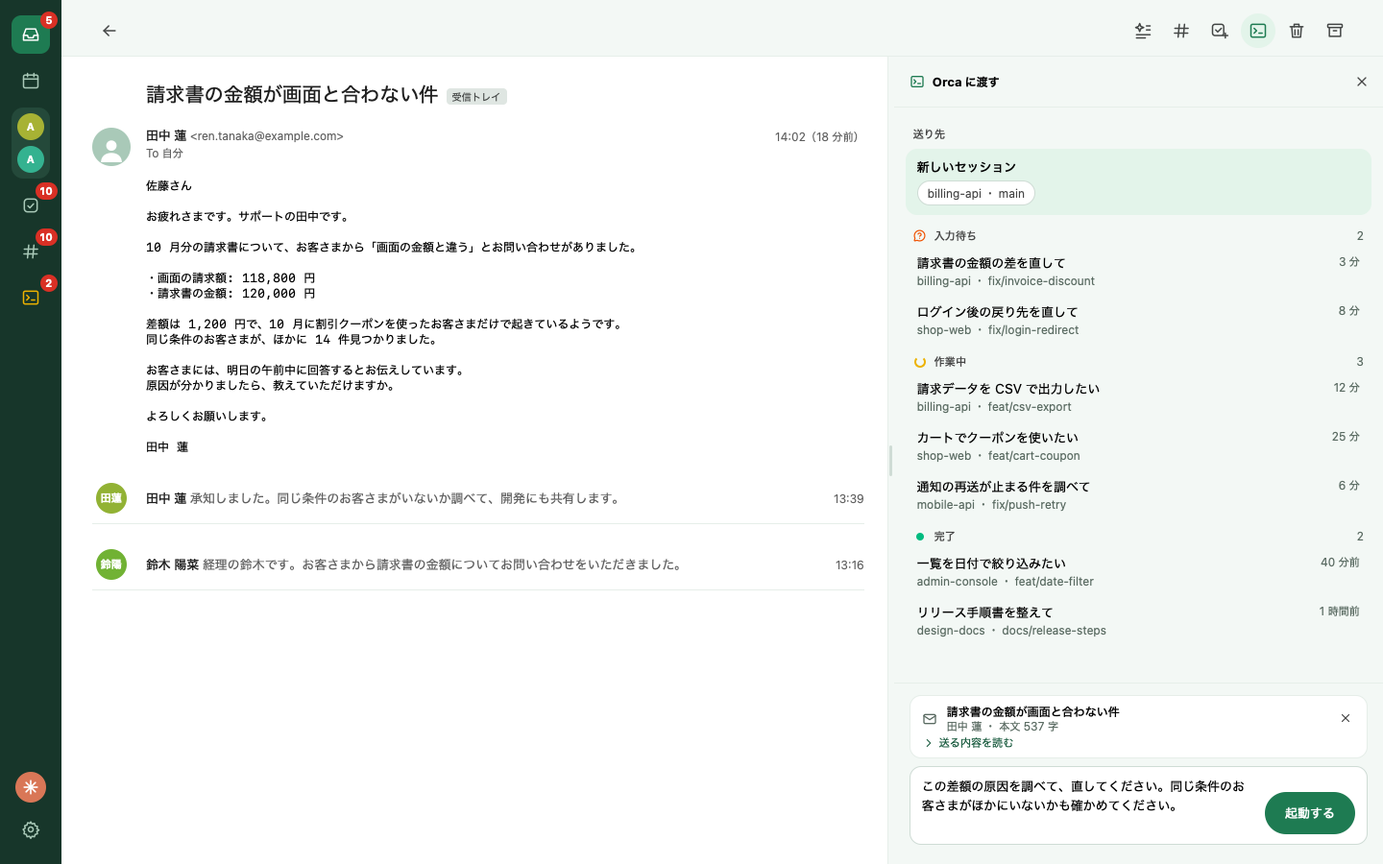
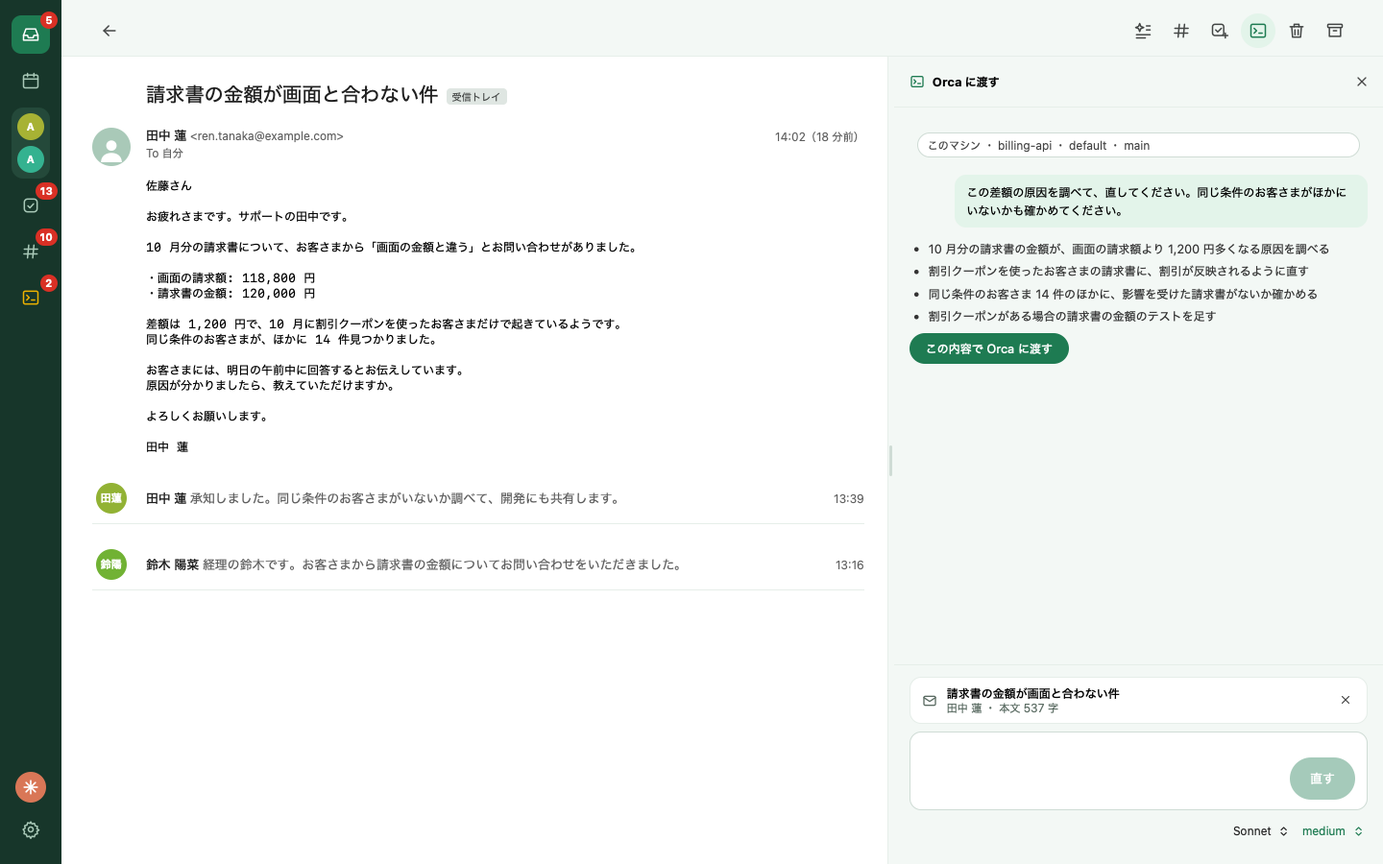
chore: v0.59.0 の CHANGELOG を書く
T-7 Todo 画面の Claude のペイン、A-9 Orca に渡す流れ、S-2 と S-18 の Todo の案のページ。
docs/features.md を合わせ、README の「Orca に渡す」と Todo の写真を撮り直した。
This commit is v0.59.0.

diff --git a/docs/features.md b/docs/features.md
@@ -17,7 +17,8 @@ title: 機能
 - 設定は「Google」「カレンダー」「Todoist」「Slack」「Claude」「Orca」「フォント」「アップデート」の 8 つのタブに分かれ、開くと Google のタブが出る。「設定」の見出しとタブは、カードをスクロールしても上に残る
 - 全アカウントの Google Calendar の予定を、1 つの週表示にまとめて表示する（閲覧のみ。サイドメニューのカレンダーのアイコンで開く）。自分が未定と答えた予定は斜線、まだ返信していない予定は色を反転して表示する。週の始まりの曜日は、設定の「カレンダー」タブで日曜から土曜の中から選べる（初期値は日曜）
 - カレンダーの予定を押すと、その横に詳細を出す（日時、Meet に参加するボタンと URL のコピー、場所、説明、参加者の人数と承諾した人数、カレンダー名とアカウント、自分の回答）。詳細は週の取得と一緒に取り、押したときの通信はない。別の予定を押すと切り替わり、同じ予定をもう一度押すか、✕・Escape・外側のクリックで閉じる
-- Todoist のタスクを、プロジェクト別（Todoist と同じ親子関係でネストする）と「今日」の一覧で表示し、完了・追加・編集（説明とサブタスクを含む）する。説明は Markdown で表示し、10 行を超える説明は 10 行目で折りたたんで「… 続きを表示（残り n 行）」で全文を出し、押すと編集して「保存」で登録する。「今日」で追加した、日付の無いタスクは期限が今日になる。期限は月のカレンダーから選べる。サブタスクは一覧の行の左のトグルで開閉する。詳細画面の右にプロジェクトと日付を出し、日付はマウスを乗せると出る × で消せる。サブタスクの詳細には、名前の上に直接の親タスクを出し、押すと親を開く（左の丸いチェックで、親タスクを完了にできる）。詳細画面の右の「ラベル」には、タスクのラベルを色の点と名前で並べ、× で外せる。＋で出る欄で、ラベルを絞り込んでタスクに付け外しし、無い名前は新しく作って付けられる。詳細画面の右上の「…」メニューから、タスクのリンクや説明（Markdown のまま）をコピーしたり、タスクを削除したりできる（削除は二度押す）。説明は、文字を選んでコピーでき（選んでも編集は始まらない）、マウスを乗せると右上に出るコピーのアイコンでもコピーできる。一覧の行にマウスを乗せると、詳細を開かずに名前・期限・プロジェクトを変えられ、行の左端をドラッグして、左のプロジェクトへ移したり、別のタスクの行に落としてそのタスクのサブタスクにしたりすることもできる（落とせる行は枠で示す。自分自身、自分のサブタスク、今の親には落とせない）。サブタスクは、行にマウスを乗せると出る「親タスクから外す」ボタンか、今いるプロジェクトへのドラッグで、親から外して単独のタスクに戻せる。詳細画面のサブタスクの行（未完了のもの）も、一覧の行と同じく、マウスを乗せると出るボタンとドラッグで、別のプロジェクトへ移す、親から外す、詳細のほかのサブタスクの下へ入れる、ができる。詳細画面の下には、タスクのコメント（投稿者、日時、Markdown の本文、添付ファイル）を一覧し、コメントの追加と、ファイル 1 つ（100 MB まで）の添付ができる（⌘Enter か送信ボタンで送り、Enter は改行になる）。受信トレイのスレッドから「Todo にする」でタスクを作る。Todoist に接続できないときは、前回取得した内容を表示する（Todoist の個人 API トークンを使う。サイドメニューの Todo のアイコンで開き、期限（日付と時刻。時刻の無い日付は 0 時）が来た未完了の件数をそのアイコンに表示する。期限の無いタスクは数えない。接続の状態の確認と解除は、設定の「Todoist」タブで行う。一覧の見出しの Claude のアイコンから、要約プロンプトの画面を開ける）
+- Todoist のタスクを、プロジェクト別（Todoist と同じ親子関係でネストする）と「今日」の一覧で表示し、完了・追加・編集（説明とサブタスクを含む）する。説明は Markdown で表示し、10 行を超える説明は 10 行目で折りたたんで「… 続きを表示（残り n 行）」で全文を出し、押すと編集して「保存」で登録する。「今日」で追加した、日付の無いタスクは期限が今日になる。期限は月のカレンダーから選べる。サブタスクは一覧の行の左のトグルで開閉する。詳細画面の右にプロジェクトと日付を出し、日付はマウスを乗せると出る × で消せる。サブタスクの詳細には、名前の上に直接の親タスクを出し、押すと親を開く（左の丸いチェックで、親タスクを完了にできる）。詳細画面の右の「ラベル」には、タスクのラベルを色の点と名前で並べ、× で外せる。＋で出る欄で、ラベルを絞り込んでタスクに付け外しし、無い名前は新しく作って付けられる。詳細画面の右上の「…」メニューから、タスクのリンクや説明（Markdown のまま）をコピーしたり、タスクを削除したりできる（削除は二度押す）。説明は、文字を選んでコピーでき（選んでも編集は始まらない）、マウスを乗せると右上に出るコピーのアイコンでもコピーできる。一覧の行にマウスを乗せると、詳細を開かずに名前・期限・プロジェクトを変えられ、行の左端をドラッグして、左のプロジェクトへ移したり、別のタスクの行に落としてそのタスクのサブタスクにしたりすることもできる（落とせる行は枠で示す。自分自身、自分のサブタスク、今の親には落とせない）。サブタスクは、行にマウスを乗せると出る「親タスクから外す」ボタンか、今いるプロジェクトへのドラッグで、親から外して単独のタスクに戻せる。詳細画面のサブタスクの行（未完了のもの）も、一覧の行と同じく、マウスを乗せると出るボタンとドラッグで、別のプロジェクトへ移す、親から外す、詳細のほかのサブタスクの下へ入れる、ができる。詳細画面の下には、タスクのコメント（投稿者、日時、Markdown の本文、添付ファイル）を一覧し、コメントの追加と、ファイル 1 つ（100 MB まで）の添付ができる（⌘Enter か送信ボタンで送り、Enter は改行になる）。受信トレイのスレッドから「Todo にする」でタスクを作る。Todoist に接続できないときは、前回取得した内容を表示する（Todoist の個人 API トークンを使う。サイドメニューの Todo のアイコンで開き、期限（日付と時刻。時刻の無い日付は 0 時）が来た未完了の件数をそのアイコンに表示する。期限の無いタスクは数えない。接続の状態の確認と解除は、設定の「Todoist」タブで行う。一覧の見出しの ✳ のアイコンから、要約プロンプトの画面を開ける）
+- Todo 画面の見出しの吹き出しのアイコン（「Claude に相談」）で、右に Claude のペインを開く（一覧でもタスクの詳細でも開け、「Orca に渡す」のペインとはどちらか一方だけ開く）。「年末まで週 2 件ずつ」のように言葉で頼むと、Claude がタスクの案を、名前、日付、プロジェクトのカードで返す。カードの上で名前、日付、プロジェクトを直し、「追加」を押して初めて Todoist にタスクを作る。「却下」は何も作らずにカードを閉じる。続けて頼むと、今のカードの内容も Claude に渡る。頼みを書く欄の下で、この相談のモデルと effort を切り替えられる（依頼、会話、今日の日付、Todoist のプロジェクトの名前を送る。Claude Code を使えるときだけ）
 - メールを Slack に貼る（詳細画面の「Slack に貼る」で専用の画面が開き、スレッドの最新のメッセージの件名・差出人・日時・本文が編集欄に入る。編集欄の文章を直して、貼るときに選んだチャンネルかスレッドに投稿する。「元の内容に戻す」で最初の文に戻せる。宛先は、最近使った先、参加しているチャンネルの検索、Slack のリンクから選ぶ。複数のワークスペースを持て、トークンはサイドメニューの設定で追加する）
 - サイドメニューは、開いている画面に合わせて、その機能のアカウントを、アイコンの下に並べる（メールとカレンダーでは Google のアカウントをカレンダーのアイコンの下に、Slack ではワークスペースを Slack のアイコンの下に出す。Todo と設定では出さない。ワークスペースの絵は、そのワークスペースでの自分のアイコン）
 - サイドメニューの Slack のアイコンで、参加しているパブリックとプライベートのチャンネルのメッセージを、全ワークスペース分まとめて、「未読」（最大 20 件。最初は 10 件で、残りはボタンで出す）と「ウォッチ」の 2 段で、新しい順に一覧する（DM とグループ DM は出さない。送信者のアイコンと名前、チャンネル、本文（ふつうの投稿は 2 行まで、ボットの投稿は項目ごとに書式つきで）、返信の件数、日時を出す。新着は自動で読み直す。設定の「Slack」タブの「リアルタイム更新」でワークスペースごとに App-Level Token を登録すると、Socket Mode でつなぎ、投稿・返信・変更・削除を約 1 秒で一覧と未読の件数に出す）。未読のメッセージは、既読になると一覧から消える。一覧の上のヘッダーに「Slack」の見出しと、「すべて既読にする」（未読のあるチャンネルごとに Slack の既読位置を最新のメッセージへ進める。戻せないので 2 回押す）と、「一覧に出さないチャンネル」を開く設定のアイコンが付く。未読の件数は Slack のアイコンにも出す（20 件を超えると `20+`。0 件のときは消える）。行にマウスを乗せると出るアイコンで、そのチャンネルを一覧に出さないようにでき、設定の「Slack」タブで戻せる。その隣のしおりで、そのスレッドをウォッチでき、ウォッチしたスレッドは外すまで「ウォッチ」の段に残り、新しい返信があると「新しい返信 N 件」を出す
@@ -29,10 +30,10 @@ title: 機能
 - 詳細の右側の Claude 欄で、スレッドのことを Claude に相談できる（返信の文章の校正、スレッドの要約、質問への回答、返信案の作成。送るのはスレッドのメッセージと返信欄の文章と会話と依頼。変更案は差分で出て、「却下」「コピー」「適用」ができ、適用しても投稿はしない。頼みを書く欄の下で、この相談のモデルと effort を切り替えられる）
 - Slack に貼る画面の右側で、Claude Code と文章を校正できる（「校正する」を押すか、依頼を書いて送る。変更案は差分で出て、「適用」で編集欄に入り、「却下」で捨てる。適用しても投稿はしない。Claude Code を使えるときだけ。区切りをドラッグするか左右の矢印キーで、Claude 側の幅を変えられる）
 - メールの詳細画面の「AI 要約」アイコンを押すと、Claude Code がスレッドを要約し、要点の短い箇条書きを件名の下のカードに出す（Claude Code を使えるときだけ）
-- Todo の追加欄に Slack のメッセージのリンクを貼ると、Claude Code がスレッド全体を要約し（長いスレッドは途中を何回かに分けて）、やることを名前、要点の短い箇条書きとリンクを説明、期限を日付にしたタスクの案をモーダルで開く（左に名前と説明、右にプロジェクト、日付、ラベルの枠。Todoist のタスクの詳細と同じ形）。追加先は Claude Code が推奨したプロジェクトが初めから入り、期限はカレンダーでも選べる。名前・説明・期限・追加先のプロジェクトを直して右下の追加ボタンを押すと、Todoist にタスクを作り、左下の「破棄」で何も作らずに閉じる（Claude Code を使えるときだけ。使っている Claude のアカウント（API キーのときは「API キー」）はサイドメニューに表示する）
-- その案のモーダルの右に Claude のペインがあり、「Claude と直す」で案の名前と説明を直せる（頼みを書いて送ると、変更案が差分で出て、「適用」で左の名前と説明に入り、「却下」で捨てる。適用しても Todoist には追加しない。頼みは任意で、頼みを書く欄の下で、この相談のモデルと effort を切り替えられる。案の名前と説明と会話と依頼を送り、Slack のメッセージは送らない。Claude Code を使えるときだけ）
-- その要約のしかたの指示を、Todo 一覧の見出しの Claude のアイコン、設定の Claude タブ、案のモーダルのどれかから開く画面で確認・編集し、デフォルトに戻せる。Claude Code との会話でも変更を頼める（変更案は差分で出て、「適用」と「保存」で確定する。頼みは複数行で書け、⌘Enter で送る。「クリア」で会話を消せる。頼みを書く欄の下で、この会話のモデルと effort を切り替えられる。Slack のメッセージは送らない）
-- 設定の Claude タブの「モデルと effort」で、Claude Code に使わせるモデル（Haiku・Sonnet・Opus）と effort（low・medium・high・xhigh・max）を、Slack の要約、メールの要約、プロンプトの会話、Slack に貼る文章の校正、Slack のスレッドの相談のそれぞれに選べる（初期値は Sonnet と medium、Slack のスレッドの相談だけ Sonnet と high。モデルを変えると、そのモデルの推奨の effort に切り替わる）
+- Todo の追加欄に Slack のメッセージのリンクを貼ると、Claude Code がスレッド全体を要約し（長いスレッドは途中を何回かに分けて）、やることを名前、要点の短い箇条書きとリンクを説明、期限を日付にしたタスクの案を Todo 画面の中のページで開く（左に名前と説明、右にプロジェクト、日付、ラベルの枠。Todoist のタスクの詳細と同じ形）。追加先は Claude Code が推奨したプロジェクトが初めから入り、期限はカレンダーでも選べる。名前・説明・期限・追加先のプロジェクトを直して右下の追加ボタンを押すと、Todoist にタスクを作り、左下の「破棄」か見出しの左の戻るボタンで何も作らずに閉じる（Claude Code を使えるときだけ。使っている Claude のアカウント（API キーのときは「API キー」）はサイドメニューに表示する）
+- その案のページの右に Claude のペインがあり、「Claude と直す」で案の名前と説明を直せる（頼みを書いて送ると、変更案が差分で出て、「適用」で左の名前と説明に入り、「却下」で捨てる。適用しても Todoist には追加しない。頼みは任意で、頼みを書く欄の下で、この相談のモデルと effort を切り替えられる。案の名前と説明と会話と依頼を送り、Slack のメッセージは送らない。Claude Code を使えるときだけ）
+- その要約のしかたの指示を、Todo 一覧の見出しの ✳ のアイコン、設定の Claude タブ、案のページのどれかから開く画面で確認・編集し、デフォルトに戻せる。Claude Code との会話でも変更を頼める（変更案は差分で出て、「適用」と「保存」で確定する。頼みは複数行で書け、⌘Enter で送る。「クリア」で会話を消せる。頼みを書く欄の下で、この会話のモデルと effort を切り替えられる。Slack のメッセージは送らない）
+- 設定の Claude タブの「モデルと effort」で、Claude Code に使わせるモデル（Haiku・Sonnet・Opus）と effort（low・medium・high・xhigh・max）を、Slack の要約、メールの要約、プロンプトの会話、Slack に貼る文章の校正、Slack のスレッドの相談、Orca に渡す要約、Todo の相談のそれぞれに選べる（初期値は Sonnet と medium、Slack のスレッドの相談だけ Sonnet と high。モデルを変えると、そのモデルの推奨の effort に切り替わる）
 - Claude Code は、Claude のサブスクリプションのほかに、Anthropic の API キーでも使える。設定の Claude タブで方式を選ぶ（API キーは呼び出しごとに課金される。キーに切り替えると、この端末の Claude Code はログアウトされる）
 - 起動したときとカレンダーを開いたときは、前回取得した受信トレイ・予定・Todo を設定フォルダから先に表示し、取得が終わったら最新の内容に描き直す
 - 新しい版が GitHub Releases に出ると、右下にポップアップが現れ、設定のアイコンと、設定の「アップデート」タブに赤い点が付く。ポップアップの「更新して再起動」を押すと、新しい版をダウンロードして署名を確かめ、入れ替えて再起動する（古いアプリが終わってから新しいアプリを開く。macOS の Apple Silicon のみ。起動時と 5 分ごとに確認する）。「あとで」で閉じると、同じ版ではアプリを終了するまで出ない（新しい版が出れば、また出る）
@@ -41,7 +42,7 @@ title: 機能
 - Orca の一覧の上の検索欄に打った文字で、プロジェクトと SSH の接続先を名前で絞り込む（大文字と小文字は区別せず、合う文字は太字で出す）。Orca 画面のどこにいても Cmd+J（Windows では Ctrl+J）で検索欄に移れ、↓↑で行を動き、Enter で選び、Escape で消す。ベルで作業中の表示にしている間は出さない
 - 保存したサーバーでは、一覧とターミナルを Orca から流れてくるデータで描く（読み直しの待ちがなく、色も出る）。ターミナルはペインの大きさに合わせて描き、打ち込むたびにその大きさを Orca に伝える。Orca 本体で同じターミナルを開いていても、Orca から届く大きさに従って描くので崩れない
 - 「Orca に渡す」のペインの履歴に出た Claude の質問に、その箱の中で答える。選択肢を選び、「回答を送る」で送る
-- 開いているメール、Slack のスレッド、Todo の内容を、その画面の右ペインから Orca に渡す。送り先（worktree を選んだ新しいセッションか、動いているセッション）を選び、渡す内容を確かめ、指示を書いて自分で送る。起動後は同じペインで履歴を読み、追加の指示を送れる。渡した内容は履歴では 1 行に畳まれ、押すと開く
+- 開いているメール、Slack のスレッド、Todo の内容を、その画面の右ペインから Orca に渡す。送り先（この Mac か、保存した環境）、プロジェクト、worktree（プロジェクト自身のフォルダか、「新規作成」）を選び、指示を書いて「要約する」を押すと、Claude が「実装すること」を箇条書きで返す。「直す」で要約を直させ、「この内容で Orca に渡す」を押して初めて、合意した要約に元の内容の引用を付けて、新しいセッションを起動する。「新規作成」の worktree の名前には Claude の案が入り、書き直せる。要約のあと、送り先、プロジェクト、worktree は 1 行に畳まれる。起動後は同じペインで履歴を読み、追加の指示を送れる。渡した内容は履歴では 1 行に畳まれ、押すと開く（要約には、指示、渡す内容、会話を Claude に送る。Claude Code を使えるときだけ）
 - このマシンの Orca のターミナルは、画面を読んで写す。色は出ず、`claude` のような全画面のプログラムは近似になる
 - Orca 画面のターミナルに出た URL は、⌘ を押しながらクリックすると既定のブラウザで開く（http と https だけ。修飾キーなしのクリックは選択のまま）。リンクの上ではその URL を出す
 - Orca 画面のターミナルで、Claude Code のようにマウスを使うプログラムが選んだ文字列をコピーできる（プログラムが OSC 52 で送る内容をクリップボードに入れる。入らなかったときは ⌘C か「編集 > コピー」で入る）。Option を押しながらドラッグすると、ターミナル側で文字を選べる

diff --git a/CHANGELOG.md b/CHANGELOG.md
@@ -3,6 +3,14 @@
 The newest version comes first.
 The project was named cookup until v0.14.6.
 
+## v0.59.0
+
+T-7 (new): the Todo screen has a Claude pane at its right (#327, #328, #333, #334). The speech-bubble button of the header (「Claude に相談」) opens and closes it, in the list and in a task's detail, and it shares its place with the 「Orca に渡す」 pane: only one of the two is open. Ask in words, such as 「年末まで週 2 件ずつ」, and Claude answers with cards of proposed tasks, each with a name, a date and a project. Nothing is written to Todoist until 「追加」 is pressed on a card; the name, the date and the project can be changed on the card first, and 「却下」 closes it. Asking again sends the cards as they are now, so Claude can change its own proposals. The request, the conversation, today's date and the names of the Todoist projects are sent to Anthropic. The model and effort of this conversation are 「Todo の相談」 in the Claude tab of the settings (A-2). The add field of the Todo screen no longer shows an example.
+
+A-9: the 「Orca に渡す」 pane hands a mail, a Slack thread or a Todo over only after an agreement with Claude (#394 to #399). Choose the destination (this Mac or a saved environment), the project and the worktree: the project's own folder, or 「新規作成」, which makes a new worktree under a name Claude proposes and you can change. Write the instruction and press 「要約する」: Claude answers with what is to be implemented, 「直す」 asks it to change the summary, and 「この内容で Orca に渡す」 starts a new session with the agreed summary and the original content as a quotation. The pane no longer lists the running sessions or sends to one, and the card no longer has 「送る内容を読む」; a further instruction to the session that was started is as before. The instruction, the content and the conversation are sent to Anthropic for the summary. Its model and effort are 「Orca に渡す要約」 in the Claude tab of the settings (A-2).
+
+S-2, S-18: the Todo draft made from a Slack message opens as a page of the Todo screen instead of a modal (#400). The back button at the left of its header drops the draft, as the ✕ did, and the ✕ is gone.
+
 ## v0.58.3
 
 A-13: the text of the Orca terminals is no wider than in Orca itself (#390). The terminals named the system's monospace font first, whose letters are wider than Menlo's, so a line was longer and each Japanese character had a wider gap after it. They now name the fonts in Orca's own order (SF Mono, then Menlo), so a Mac draws them with the same font as Orca.
